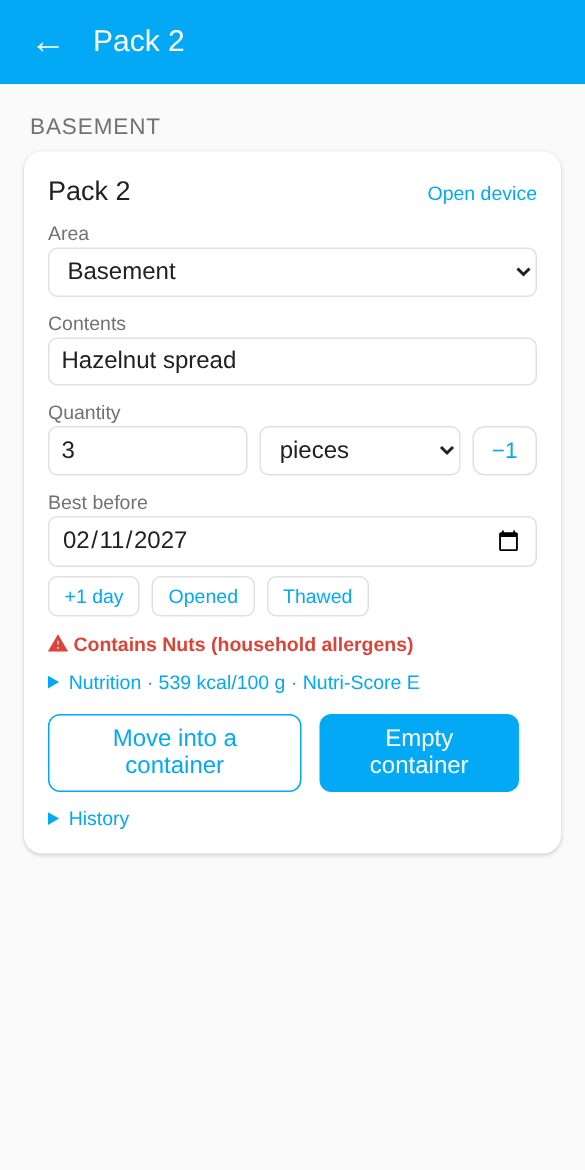
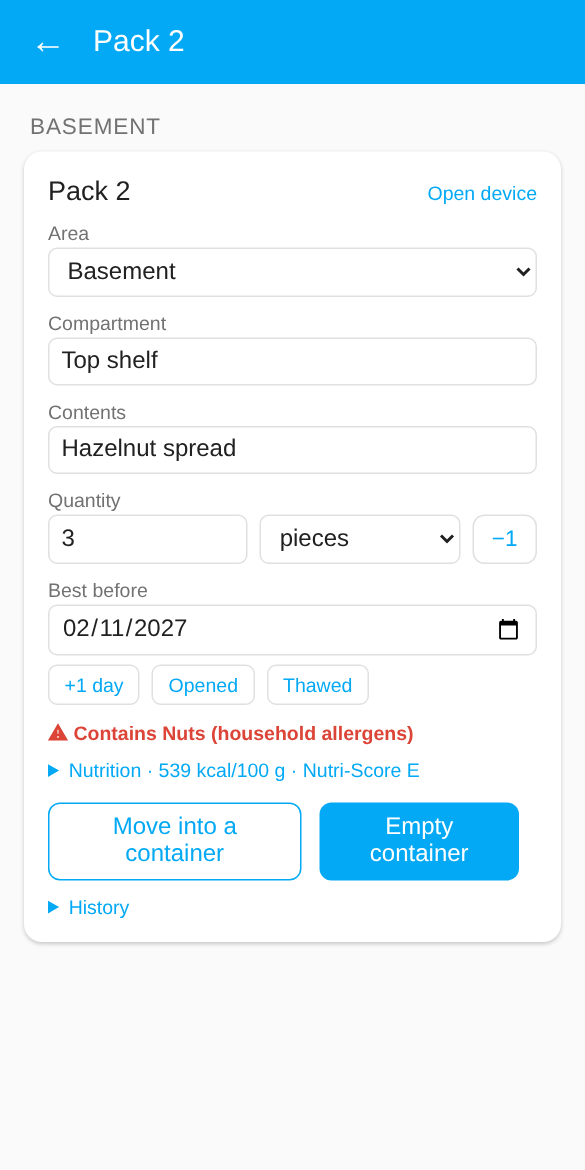
3.0.1: Fach für Packungen
- Packungen bekommen die Entität Fach (bestehende nach dem Update automatisch)
- optionales Fach im Dialog für Beutel und Packungen

Claude-Session: https://claude.ai/code/session_01Q3qkotbUKKo9rH8nVuWDPZ

diff --git a/custom_components/larder/frontend/larder-dashboard-items.js b/custom_components/larder/frontend/larder-dashboard-items.js
@@ -20,6 +20,8 @@ const TEXT = {
     titleBag: "Beutel anlegen",
     titlePack: "Packungen anlegen",
     area: "Bereich",
+    compartment: "Fach (optional)",
+    compartmentHint: "z. B. Schublade 2",
     noArea: "Kein Bereich",
     content: "Inhalt",
     count: "Anzahl Beutel",
@@ -74,6 +76,8 @@ const TEXT = {
     titleBag: "Add bags",
     titlePack: "Add packs",
     area: "Area",
+    compartment: "Compartment (optional)",
+    compartmentHint: "e.g. drawer 2",
     noArea: "No area",
     content: "Contents",
     count: "Number of bags",
@@ -209,6 +213,11 @@ export function installItems(Dashboard, { el, isAdmin, listAreas, DOMAIN }) {
     }
     const remembered = (this._opts.itemArea || {})[kind] || "";
     if ([...area.options].some((o) => o.value === remembered)) area.value = remembered;
+    const compartment = el("input");
+    compartment.type = "text";
+    compartment.maxLength = 60;
+    compartment.dataset.f = "compartment";
+    compartment.placeholder = t.compartmentHint;
 
     const rows = el("div", "itemrows");
     const status = el("p", "hint");
@@ -319,6 +328,7 @@ export function installItems(Dashboard, { el, isAdmin, listAreas, DOMAIN }) {
     form.replaceChildren(
       el("h2", "", bag ? t.titleBag : t.titlePack),
       field(t.area, area),
+      field(t.compartment, compartment),
       rows,
       ...extras,
       status,
@@ -348,6 +358,7 @@ export function installItems(Dashboard, { el, isAdmin, listAreas, DOMAIN }) {
       try {
         const msg = { type: `${DOMAIN}/create_items`, kind, items };
         if (area.value) msg.area_id = area.value;
+        if (compartment.value.trim()) msg.compartment = compartment.value.trim();
         const res = await hass.callWS(msg);
         this._opts.itemArea = { ...(this._opts.itemArea || {}), [kind]: area.value };
         this._saveOptions();

diff --git a/docs/demo/dashboard.html b/docs/demo/dashboard.html
@@ -85,6 +85,9 @@ doses.forEach(([name, area, content, days, category, kind = "container"], i) => 
   states[ids.select] = { entity_id: ids.select, state: kind === "pack" ? "pieces" : "portions", attributes: { options: ["portions", "pieces", "slices", "grams", "milliliters"] } };
   states[ids.button] = { entity_id: ids.button, state: "unknown", attributes: {} };
   if (ids.image) states[ids.image] = { entity_id: ids.image, state: "x", attributes: {} };
+  const comp = `text.${id}_compartment`;
+  entities[comp] = { entity_id: comp, device_id: id, platform: "larder", translation_key: "compartment" };
+  states[comp] = { entity_id: comp, state: kind === "pack" ? (de ? "Regal oben" : "Top shelf") : "", attributes: {} };
   if (kind !== "container") return; // Beutel und Packungen haben keinen festen Platz
   // variabler Lagerort (Vakuumdosen im Kühlschrank) mit "nach dem Leeren zurück in"
   const flex = `switch.${id}_flexible`, home = `select.${id}_home_area`;

diff --git a/custom_components/larder/disposable.py b/custom_components/larder/disposable.py
@@ -21,7 +21,7 @@ from homeassistant.components import websocket_api
 from homeassistant.config_entries import SOURCE_IMPORT
 from homeassistant.core import HomeAssistant, callback
 from homeassistant.exceptions import HomeAssistantError
-from homeassistant.helpers import device_registry as dr
+from homeassistant.helpers import device_registry as dr, entity_registry as er
 from homeassistant.helpers.storage import Store
 from homeassistant.util import dt as dt_util
 
@@ -168,7 +168,11 @@ def next_names(hass: HomeAssistant, kind: str, count: int) -> list[str]:
 
 
 async def async_create_items(
-    hass: HomeAssistant, kind: str, items: list[dict[str, Any]], area_id: str | None = None
+    hass: HomeAssistant,
+    kind: str,
+    items: list[dict[str, Any]],
+    area_id: str | None = None,
+    compartment: str | None = None,
 ) -> list[dict[str, Any]]:
     """Beutel oder Packungen anlegen und gleich befüllen. Liefert je Eintrag device_id, cc, name."""
     if kind not in DISPOSABLE_KINDS:
@@ -207,6 +211,12 @@ async def async_create_items(
                 await ents["best_before"].async_estimate_best_before()
             except HomeAssistantError:
                 _LOGGER.debug("MHD für %s nicht geschätzt", name, exc_info=True)
+        if compartment and compartment.strip():
+            comp_id = er.async_get(hass).async_get_entity_id("text", DOMAIN, f"{entry.data[CONF_CC]}_compartment")
+            if comp_id:
+                await hass.services.async_call(
+                    "text", "set_value", {"entity_id": comp_id, "value": compartment.strip()}, blocking=True
+                )
         device = registry.async_get_device(identifiers={(DOMAIN, entry.data[CONF_CC])})
         created.append({"device_id": device.id if device else None, "cc": entry.data[CONF_CC], "name": name})
     return created
@@ -271,6 +281,7 @@ def _cc_of(hass: HomeAssistant, device_id: str) -> str | None:
         vol.Required("kind"): vol.In(DISPOSABLE_KINDS),
         vol.Required("items"): vol.All([_ITEM], vol.Length(min=1, max=MAX_ITEMS)),
         vol.Optional("area_id"): vol.Any(str, None),
+        vol.Optional("compartment"): vol.All(str, vol.Length(max=60)),
     }
 )
 @websocket_api.async_response
@@ -279,7 +290,7 @@ async def ws_create_items(
 ) -> None:
     """Beutel oder Packungen anlegen (für alle Nutzer: gehört zum Alltag wie das Befüllen)."""
     try:
-        created = await async_create_items(hass, msg["kind"], msg["items"], msg.get("area_id"))
+        created = await async_create_items(hass, msg["kind"], msg["items"], msg.get("area_id"), msg.get("compartment"))
     except HomeAssistantError as err:
         connection.send_error(msg["id"], "create_failed", str(err))
         return

diff --git a/tests/test_disposable.py b/tests/test_disposable.py
@@ -112,11 +112,14 @@ async def test_packs_have_few_entities_and_no_code(hass: HomeAssistant, hass_ws_
         hass_ws_client,
         type="larder/create_items",
         kind="pack",
+        compartment="Regal oben",
         items=[{"content": "Tomaten gehackt", "quantity": 3, "unit": "pieces", "best_before": day, "product": {"brand": "Mutti", "kcal_100g": 24}}],
     )
     item = res["result"]["items"][0]
     assert item["name"] == "Pack 1"
-    assert _entities(hass, item["device_id"]) == {"content", "best_before", "portions", "unit", "days_left", "empty_container"}
+    assert _entities(hass, item["device_id"]) == {"content", "compartment", "best_before", "portions", "unit", "days_left", "empty_container"}
+    comp = er.async_get(hass).async_get_entity_id("text", DOMAIN, f"{item['cc']}_compartment")
+    assert hass.states.get(comp).state == "Regal oben"
     attrs = hass.states.get(_eid(hass, "text", item["cc"])).attributes
     assert attrs["kind"] == "pack" and attrs["brand"] == "Mutti"
     # zählt bei "läuft bald ab" mit, aber nicht bei "alle Etiketten"

diff --git a/custom_components/larder/text.py b/custom_components/larder/text.py
@@ -9,8 +9,8 @@ from homeassistant.core import HomeAssistant
 from homeassistant.helpers.dispatcher import async_dispatcher_connect
 from homeassistant.helpers.entity_platform import AddEntitiesCallback
 
-from .const import DOMAIN, KIND_PACK, SIGNAL_SETTINGS_CHANGED
-from .entity import LarderConfigEntry, LarderEntity, LarderResettable, kind_of
+from .const import DOMAIN, SIGNAL_SETTINGS_CHANGED
+from .entity import LarderConfigEntry, LarderEntity, LarderResettable
 from .estimate import DATA_ESTIMATOR, async_get_estimator
 from .product import watched_allergens
 from .shelf_life import category_for
@@ -23,7 +23,7 @@ async def async_setup_entry(
 ) -> None:
     content = LarderContent(entry)
     entry.runtime_data.resettable[content._key] = content
-    async_add_entities([content] if kind_of(entry) == KIND_PACK else [content, LarderCompartment(entry)])
+    async_add_entities([content, LarderCompartment(entry)])  # Fach auch für Beutel und Packungen
 
 
 # Produktdaten und Nährwerte des Inhalts (aus dem Strichcode oder von Hand); gehören zum Inhalt

diff --git a/docs/de/containers.md b/docs/de/containers.md
@@ -76,7 +76,7 @@ Beutel und Packungen kann jeder im Haushalt anlegen, Dosen nur Administratoren.
 
 Ein Beutel funktioniert wie eine Dose (scannen, Portion entnehmen, **Geöffnet**, **Aufgetaut**, Rezepte, Wochenplan). Beim Leeren werden der Beutel, seine Entitäten und sein NFC-Tag aus Home Assistant entfernt (auch aus Einstellungen → Tags), damit sich nichts ansammelt. Wird ein alter Sticker oder ein altes Etikett versehentlich gescannt, sagt Larder, wann dieser Beutel geleert wurde, statt etwas anderes zu öffnen. Codes werden nie doppelt vergeben; ein Sticker, der überlebt hat, lässt sich für einen neuen Beutel wieder beschreiben oder scannen.
 
-**Packungen.** Pro Produkt eine Zeile mit der **Anzahl** und dem aufgedruckten MHD; **📷 Strichcode scannen** (Home Assistant App) trägt Name, Marke und [Nährwerte](#nährwerte) aus Open Food Facts ein. Packungen haben keinen Code und nur wenige Entitäten (Inhalt, Menge, Einheit, MHD, Resttage, Leeren), so bleiben auch viele davon schlank. Sie tauchen überall auf, wo Dosen auftauchen: läuft bald ab, [tägliche Zusammenfassung](kitchen.md#tägliche-zusammenfassung), [Rezepte](kitchen.md#rezepte), [Statistik](dashboard.md#statistik), der Filter **Packungen** auf der Behälter-Seite (📦 auf der Kachel).
+**Packungen.** Pro Produkt eine Zeile mit der **Anzahl** und dem aufgedruckten MHD; **📷 Strichcode scannen** (Home Assistant App) trägt Name, Marke und [Nährwerte](#nährwerte) aus Open Food Facts ein. Packungen haben keinen Code und nur wenige Entitäten (Inhalt, Fach, Menge, Einheit, MHD, Resttage, Leeren), so bleiben auch viele davon schlank. Sie tauchen überall auf, wo Dosen auftauchen: läuft bald ab, [tägliche Zusammenfassung](kitchen.md#tägliche-zusammenfassung), [Rezepte](kitchen.md#rezepte), [Statistik](dashboard.md#statistik), der Filter **Packungen** auf der Behälter-Seite (📦 auf der Kachel).
 
 - **−1** auf der Karte entnimmt eine Packung; die letzte entfernt den Eintrag.
 - **In Dose umfüllen** öffnet eine Packung: leere Dose wählen, Inhalt und Nährwerte wandern hinein, und das MHD wird für die geöffnete Ware neu geschätzt (höchstens das aufgedruckte Datum).

diff --git a/docs/en/containers.md b/docs/en/containers.md
@@ -76,7 +76,7 @@ Bags and packs can be added by everyone in the household, containers only by adm
 
 A bag works like a container (scan it, take a portion, **Opened**, **Thawed**, recipes, meal plan). When you empty it, the bag, its entities and its NFC tag are removed from Home Assistant (also from Settings → Tags), so nothing piles up. If an old sticker or label is scanned by mistake, Larder says when that bag was emptied instead of opening something else. Codes are never used twice; a sticker that survived can be written or scanned again for a new bag.
 
-**Packs.** One row per product with the **count** and the best-before date printed on the package; **📷 Scan barcode** (Home Assistant app) fills in the name, brand and [nutrition](#nutrition) from Open Food Facts. Packs have no code and only a few entities (contents, quantity, unit, best-before date, days left, empty), so even many of them stay light. They show up everywhere containers do: expiring soon, [daily summary](kitchen.md#daily-summary), [recipes](kitchen.md#recipes), [statistics](dashboard.md#statistics), the filter **Packs** on the containers page (📦 on the tile).
+**Packs.** One row per product with the **count** and the best-before date printed on the package; **📷 Scan barcode** (Home Assistant app) fills in the name, brand and [nutrition](#nutrition) from Open Food Facts. Packs have no code and only a few entities (contents, compartment, quantity, unit, best-before date, days left, empty), so even many of them stay light. They show up everywhere containers do: expiring soon, [daily summary](kitchen.md#daily-summary), [recipes](kitchen.md#recipes), [statistics](dashboard.md#statistics), the filter **Packs** on the containers page (📦 on the tile).
 
 - **−1** on the card takes one pack; the last one removes the entry.
 - **Move into a container** opens a pack: choose an empty container, the contents and nutrition move into it, and the best-before date is estimated again for the opened food (at most the printed date).

diff --git a/docs/de/reference.md b/docs/de/reference.md
@@ -73,7 +73,7 @@ Pro Dose entsteht ein Gerät (eindeutig über die ID, den Parameter `cc` eines Z
 | **Tage bis MHD** | `sensor` | Verbleibende Tage bis zum MHD (negativ = abgelaufen). Das Attribut `status` ist `ok`, `soon` (3 Tage oder weniger, siehe [Einstellungen](#einstellungen)), `expired` oder `none` |
 | **QR-Code** | `image` | QR-Code der Dose als Bild: Scannen mit der Kamera-App öffnet die Dose im Larder-Dashboard, siehe [Eigene QR-Codes](scanning.md#eigene-qr-codes) |
 
-[Beutel](containers.md#beutel-und-packungen) haben dieselben Entitäten außer **Einkaufsliste**, **Variabler Lagerort** und **Lagerort nach dem Leeren**; [Packungen](containers.md#beutel-und-packungen) haben nur **Inhalt**, **MHD**, **Menge**, **Einheit**, **Tage bis MHD** und **Behälter leeren**. Das Attribut `kind` von **Inhalt** ist `container`, `bag` oder `pack`. **Behälter leeren** entfernt bei einem Beutel oder einer Packung das Gerät.
+[Beutel](containers.md#beutel-und-packungen) haben dieselben Entitäten außer **Einkaufsliste**, **Variabler Lagerort** und **Lagerort nach dem Leeren**; [Packungen](containers.md#beutel-und-packungen) haben nur **Inhalt**, **Fach**, **MHD**, **Menge**, **Einheit**, **Tage bis MHD** und **Behälter leeren**. Das Attribut `kind` von **Inhalt** ist `container`, `bag` oder `pack`. **Behälter leeren** entfernt bei einem Beutel oder einer Packung das Gerät.
 
 Die Werte bleiben über Neustarts erhalten. „Behälter leeren“ ist eine normale Button-Entität, lässt sich also auf Dashboards und in Automationen über `button.press` verwenden.
 

diff --git a/docs/en/reference.md b/docs/en/reference.md
@@ -73,7 +73,7 @@ Every container becomes a device (identified by its ID, the `cc` parameter of a 
 | **Days until best before** | `sensor` | Days left until the best-before date (negative = expired). The attribute `status` is `ok`, `soon` (3 days or less, see [Settings](#settings)), `expired` or `none` |
 | **QR code** | `image` | The container's QR code as an image: scanning it with the camera app opens the container in the Larder dashboard, see [Your own QR codes](scanning.md#your-own-qr-codes) |
 
-[Bags](containers.md#bags-and-packs) have the same entities except **Shopping list**, **Flexible storage place** and **Storage place after emptying**; [packs](containers.md#bags-and-packs) only have **Contents**, **Best before**, **Quantity**, **Unit**, **Days until best before** and **Empty container**. The attribute `kind` of **Contents** is `container`, `bag` or `pack`. Pressing **Empty container** on a bag or pack removes its device.
+[Bags](containers.md#bags-and-packs) have the same entities except **Shopping list**, **Flexible storage place** and **Storage place after emptying**; [packs](containers.md#bags-and-packs) only have **Contents**, **Compartment**, **Best before**, **Quantity**, **Unit**, **Days until best before** and **Empty container**. The attribute `kind` of **Contents** is `container`, `bag` or `pack`. Pressing **Empty container** on a bag or pack removes its device.
 
 The values survive restarts. "Empty container" is a regular button entity, so you can use it on dashboards and in automations via `button.press`.
 

diff --git a/CHANGELOG.md b/CHANGELOG.md
@@ -3,6 +3,11 @@
 Release notes for every version, newest first. They are also used as the text of the GitHub releases
 (the workflow `release.yml` takes the section of the version in `manifest.json`).
 
+## 3.0.1
+
+- **Compartment for packs:** packs now have the **Compartment** entity too (e.g. "top shelf"), on the card, tiles and in the search. Existing packs get it after the update.
+- **Compartment when adding bags and packs:** optional field in the dialog, applied to all items added at once.
+
 ## 3.0.0
 
 **Breaking changes**
